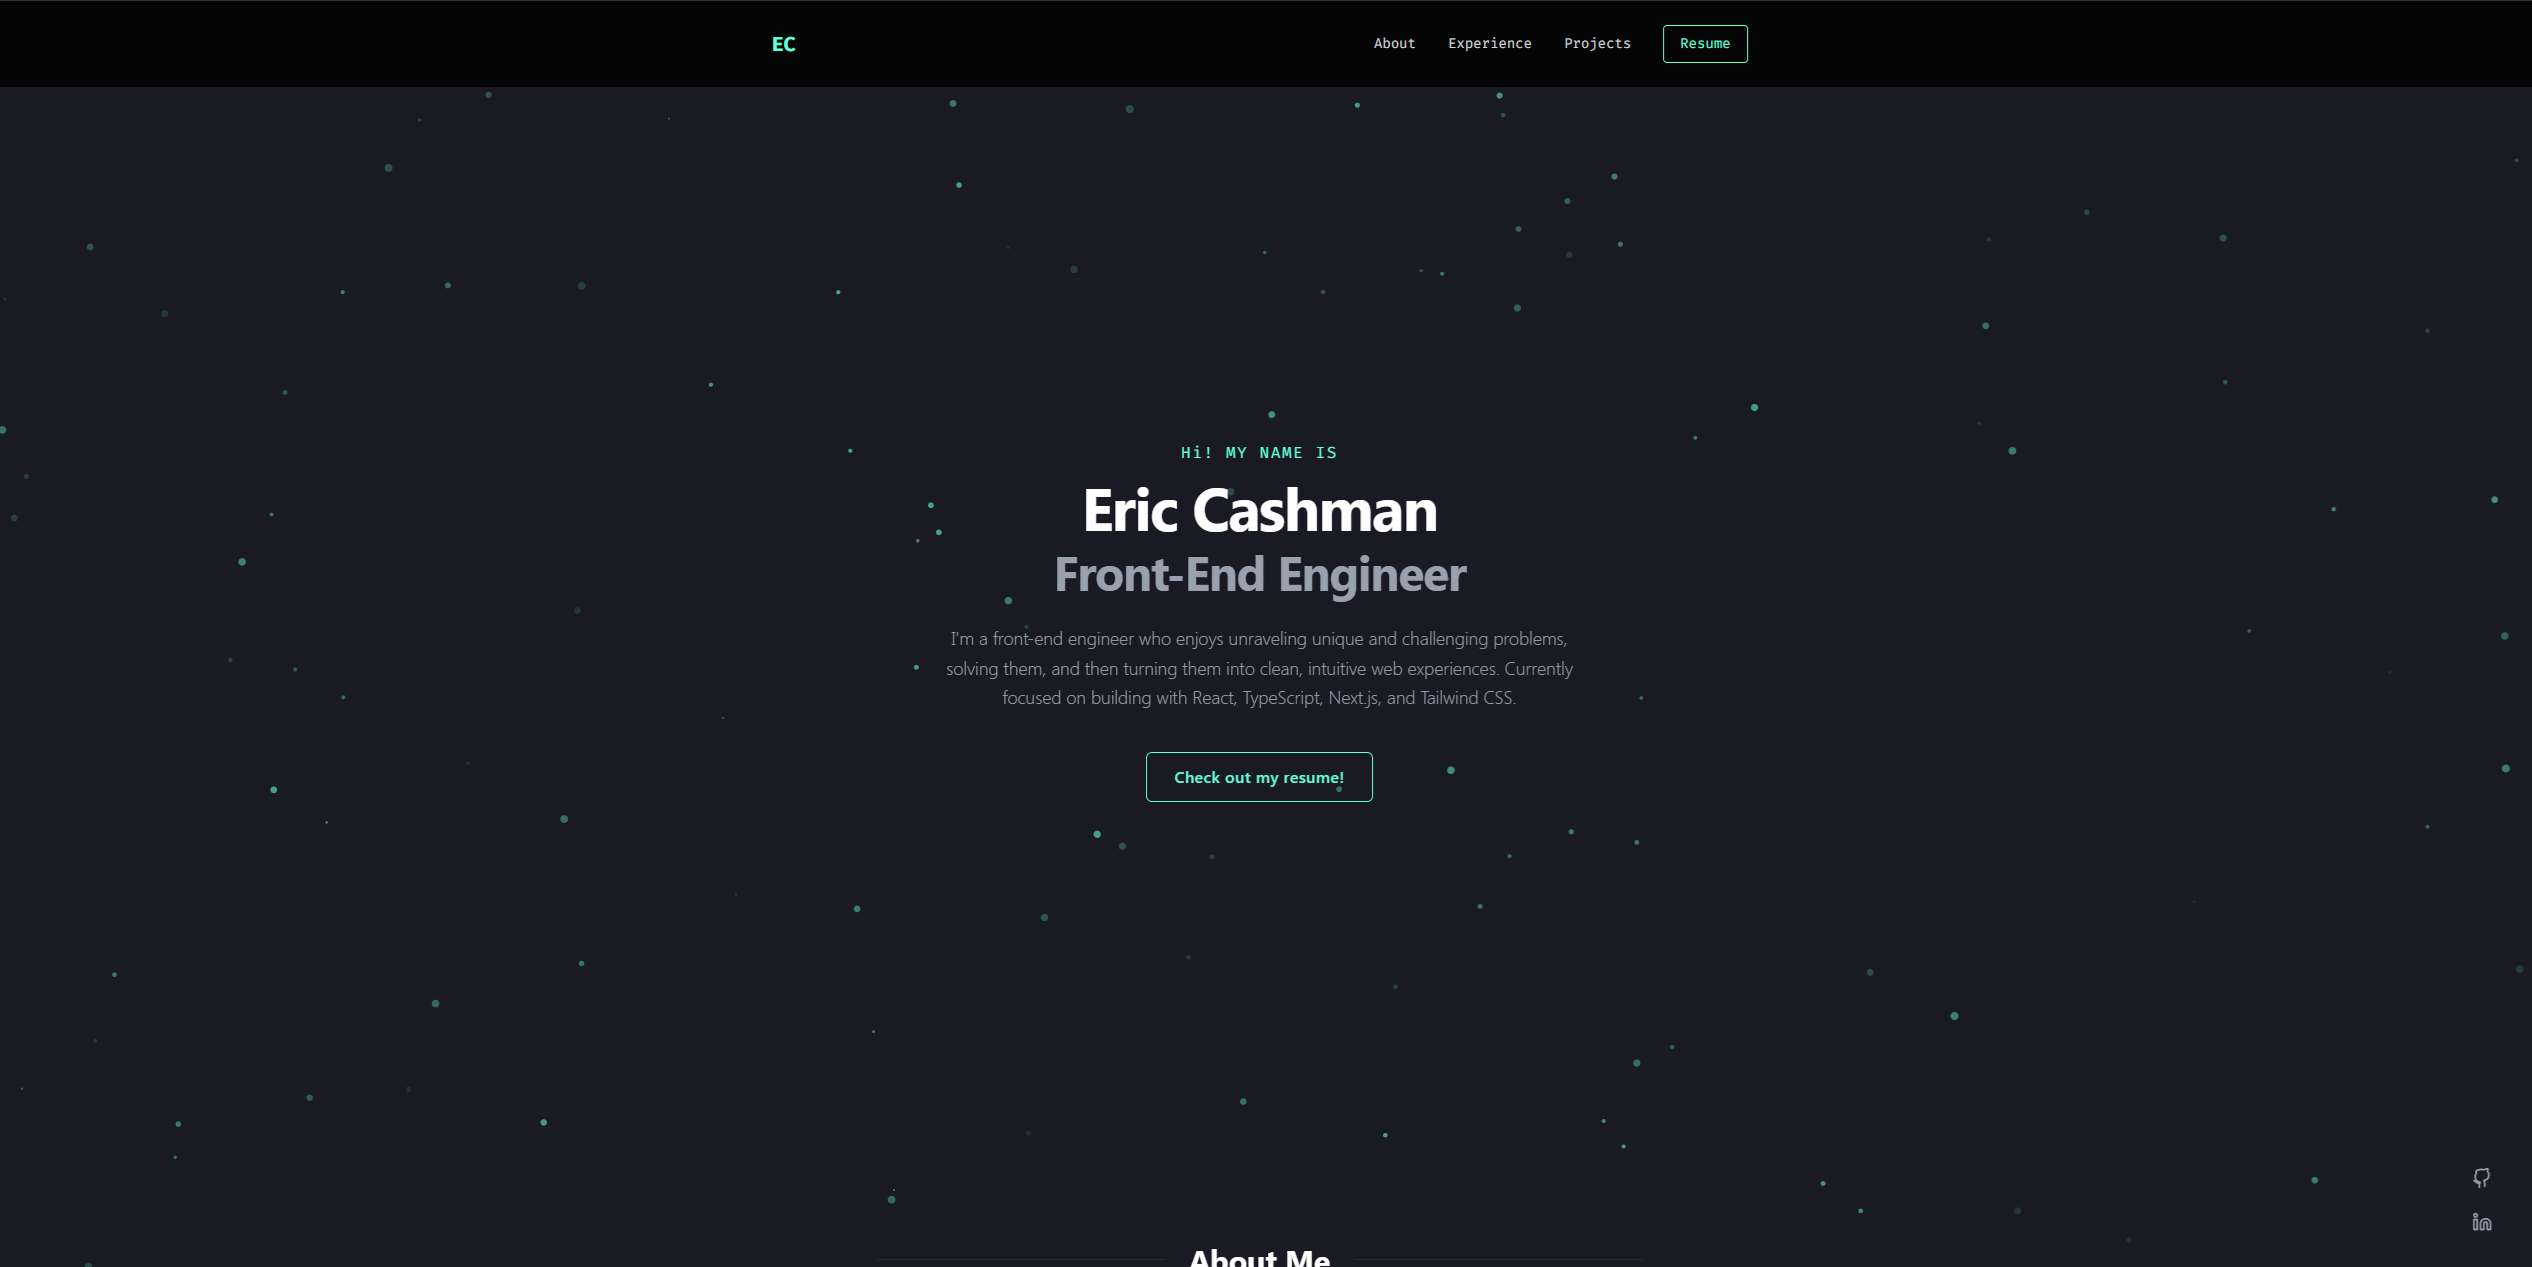
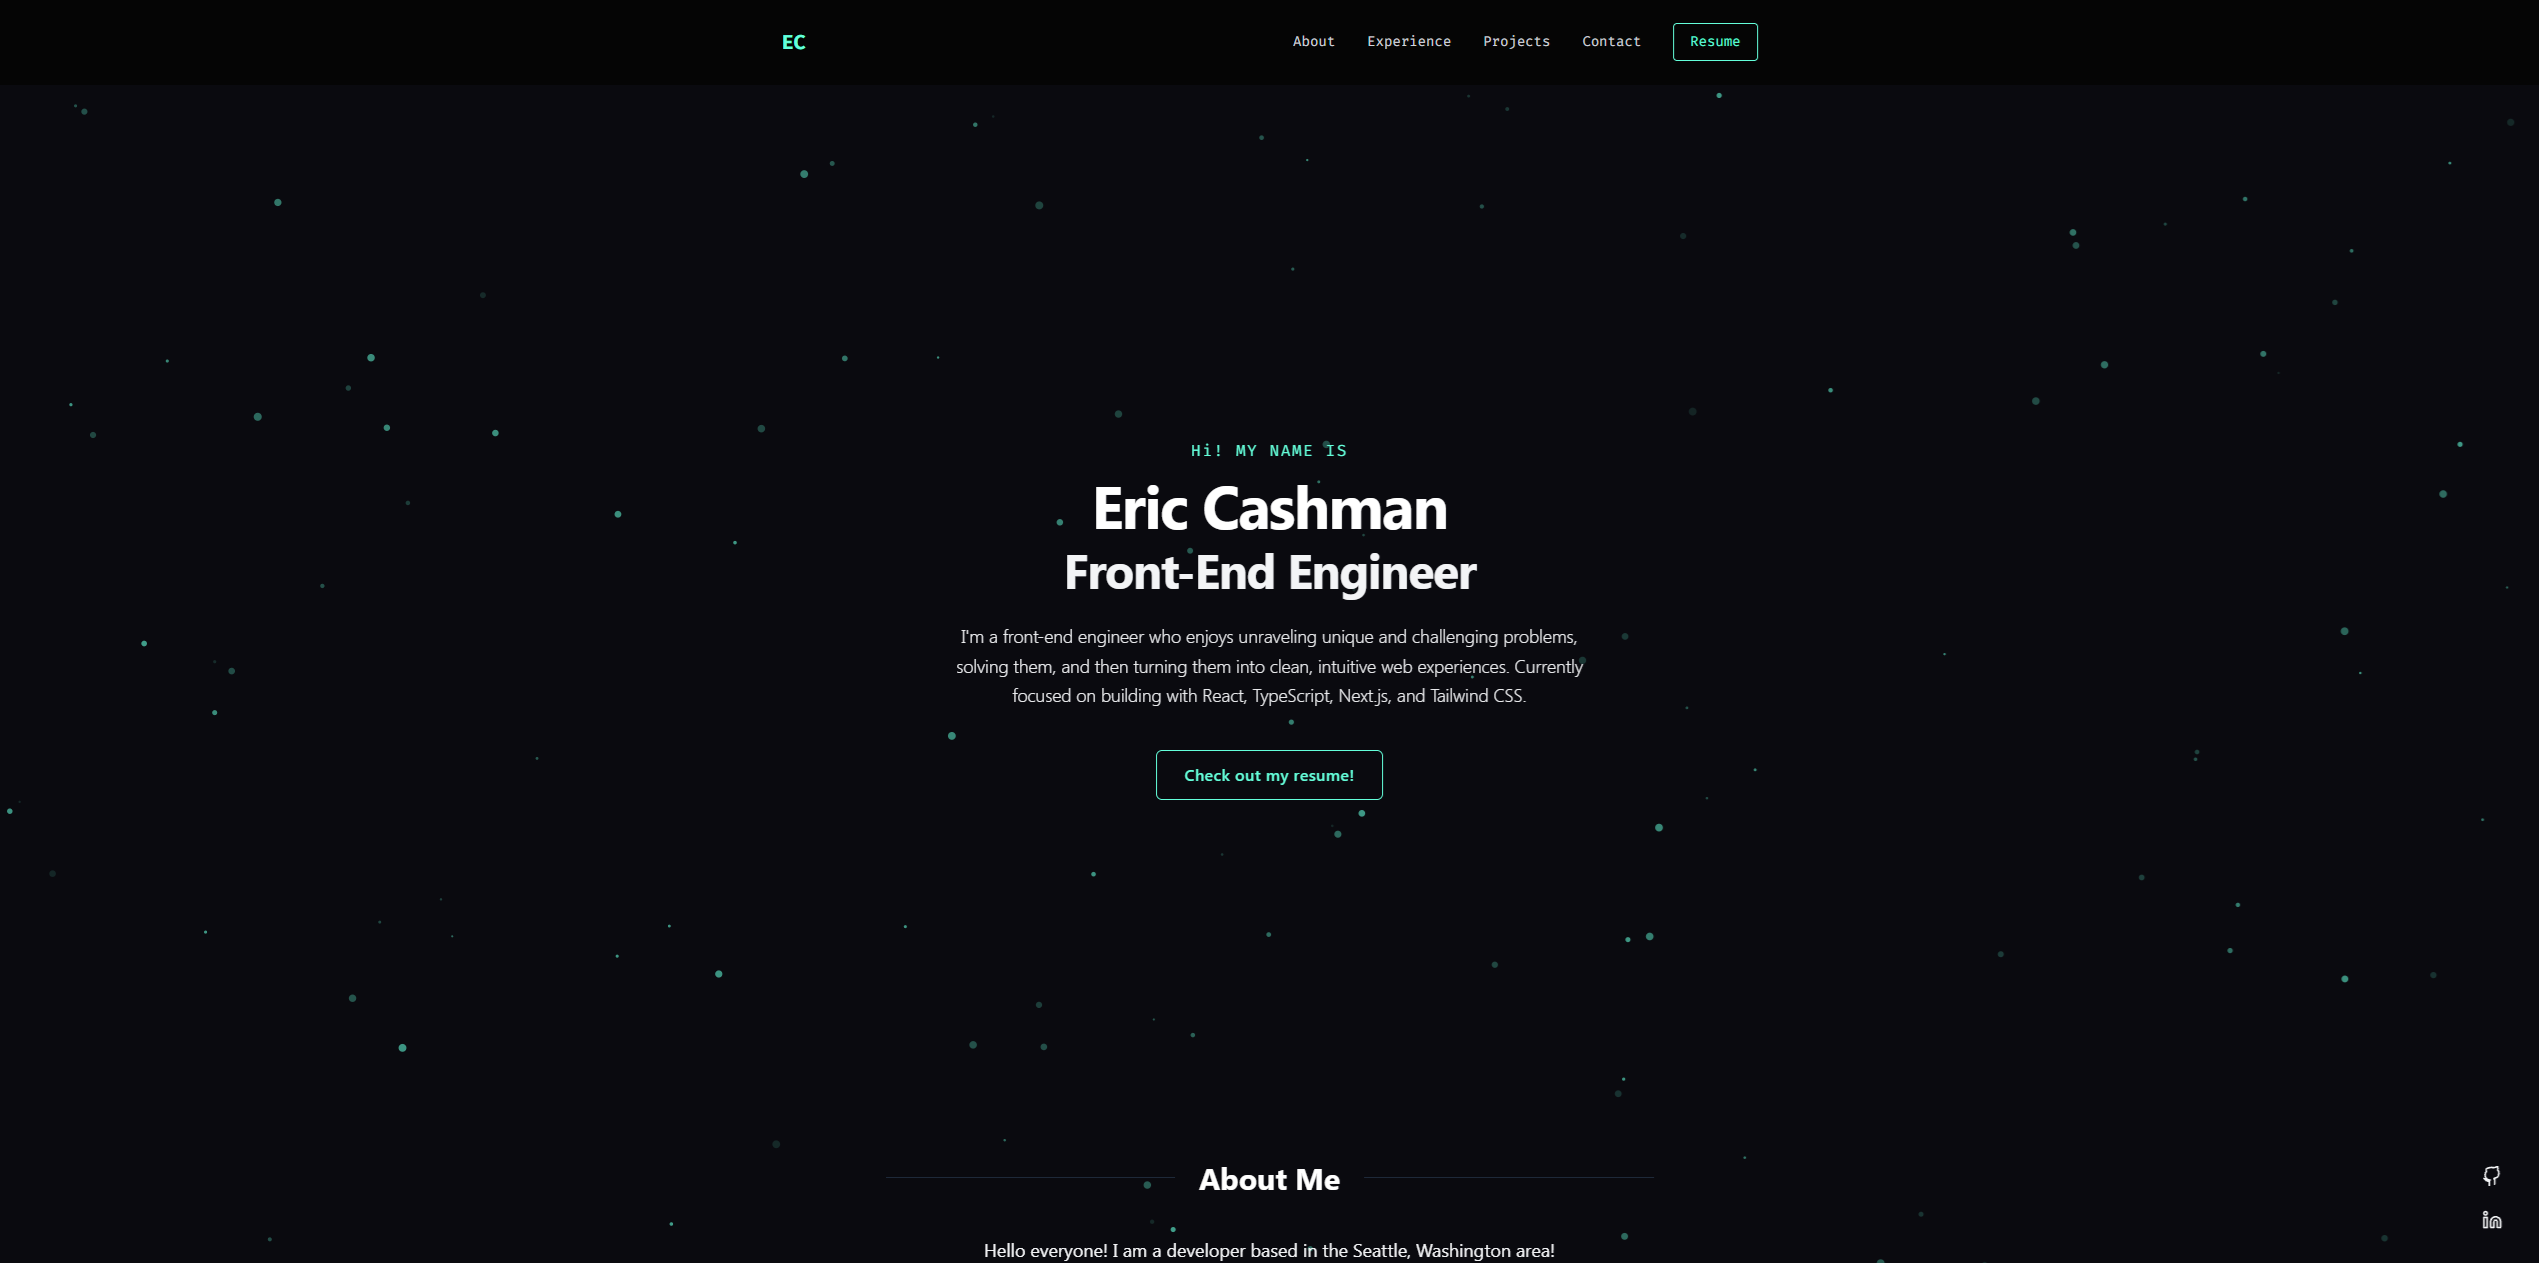
Updated styling, added WA Fire Tracker demo, and finalized Contact section

diff --git a/src/App.tsx b/src/App.tsx
@@ -5,7 +5,7 @@ import Contact from './Contact';
 
 function About() {
   return (
-    <section id="about" className="py-24 max-w-3xl mx-auto flex flex-col items-center text-center">
+    <section id="about" className="py-4 max-w-3xl mx-auto flex flex-col items-center text-center">
       <div className="flex items-center justify-center mb-10 w-full">
         <div className="h-[1px] bg-gray-800 flex-1 mr-6"></div>
         <h2 className="text-3xl font-bold text-white whitespace-nowrap">
@@ -14,7 +14,7 @@ function About() {
         <div className="h-[1px] bg-gray-800 flex-1 ml-6"></div>
       </div>
       
-      <div className="text-gray-400 text-lg leading-relaxed space-y-4 mx-auto">
+      <div className="text-gray-100 text-lg leading-relaxed space-y-4 mx-auto">
         <p>
           Hello everyone! I am a developer based in the Seattle, Washington area!
         </p>
@@ -22,7 +22,7 @@ function About() {
           I am currently going for my Bachelor's in Application Development at North Seattle College. I became curious about programming while during High School when my friend built a mod for a game we played, and it completely made life easier for us. I wanted to learn how to do that, which brought me here today.
         </p>
         <p>
-          Favorite hobbies include: Walking, hanging out with friends, and learning new things!
+          Favorite hobbies include: Walking, hanging out with friends, finding new ways to automate and make things efficient, and learning new things!
         </p>
       </div>
     </section>
@@ -67,17 +67,17 @@ function Experience() {
         {jobs.map((job) => (
           <div key={job.id} className="flex flex-col sm:flex-row gap-4 sm:gap-8 group">
             <div className="w-full sm:w-1/4 pt-1">
-              <p className="text-sm font-mono text-gray-500 uppercase tracking-wider">
+              <p className="text-sm font-mono text-gray-200 uppercase tracking-wider">
                 {job.date}
               </p>
             </div>
             <div className="w-full sm:w-3/4">
               <h3 className="text-xl font-medium text-white mb-2 flex items-center">
                 {job.title} 
-                <span className="text-gray-400 mx-2">•</span> 
-                <span className="text-gray-300 font-normal">{job.company}</span>
+                <span className="text-gray-200 mx-2">•</span> 
+                <span className="text-gray-200 font-normal">{job.company}</span>
               </h3>
-              <p className="text-gray-400 text-base leading-relaxed">
+              <p className="text-gray-200 text-base leading-relaxed">
                 {job.description}
               </p>
             </div>
@@ -98,8 +98,19 @@ function Projects() {
       tech: ["React", "TypeScript", "Tailwind CSS", "Vite"],
       github: "https://github.com/Eric-Cashman/personal-website",
       external: "",
+      demo: "", // Added empty demo property
       image: "/personal-website/photos/portfolio-shot.png" 
     },
+    {
+      id: 2,
+      title: "Washington Fire Tracker",
+      description: "A web application mapping and tracking active wildfire data across Washington state by counties, and showing which areas are most likely at risk.",
+      tech: ["React", "JavaScript", "Python", "Amazon Kiro", "HTML"], 
+      github: "https://github.com/Eric-Cashman/wa-kiro-fire",
+      external: "",
+      demo: "https://youtu.be/8RNYvv2JVvw", // Added your YouTube link here
+      image: "/personal-website/photos/WAFIREScreenshot.png"
+    }
   ];
 
   return (
@@ -125,7 +136,7 @@ function Projects() {
                     className="w-full h-full object-cover opacity-80 group-hover:opacity-100 transition-opacity duration-300" 
                   />
                 ) : (
-                  <svg xmlns="http://www.w3.org/2000/svg" className="h-8 w-8 text-gray-500 group-hover:text-[#64ffda]/70 transition-colors" fill="none" viewBox="0 0 24 24" stroke="currentColor">
+                  <svg xmlns="http://www.w3.org/2000/svg" className="h-8 w-8 text-gray-300 group-hover:text-[#64ffda]/70 transition-colors" fill="none" viewBox="0 0 24 24" stroke="currentColor">
                     <path strokeLinecap="round" strokeLinejoin="round" strokeWidth={1} d="M4 16l4.586-4.586a2 2 0 012.828 0L16 16m-2-2l1.586-1.586a2 2 0 012.828 0L20 14m-6-6h.01M6 20h12a2 2 0 002-2V6a2 2 0 00-2-2H6a2 2 0 00-2 2v12a2 2 0 002 2z" />
                   </svg>
                 )}
@@ -150,9 +161,28 @@ function Projects() {
                 )}
               </div>
               
-              <p className="text-gray-400 text-sm leading-relaxed mb-6">
-                {project.description}
-              </p>
+              {/* Wrapped description and demo link together for perfect spacing */}
+              <div className="mb-6">
+                <p className="text-gray-200 text-sm leading-relaxed">
+                  {project.description}
+                </p>
+                
+                {/* Conditionally render the demo link if one exists */}
+                {project.demo && (
+                  <p className="text-sm mt-3">
+                    <span className="text-gray-400">Demo: </span>
+                    <a 
+                      href={project.demo} 
+                      target="_blank" 
+                      rel="noopener noreferrer" 
+                      className="text-[#64ffda] hover:underline hover:text-white transition-colors"
+                    >
+                      {project.demo}
+                    </a>
+                  </p>
+                )}
+              </div>
+
               <div className="flex flex-wrap gap-2 mt-auto">
                 {project.tech.map((techItem, index) => (
                   <span 
@@ -174,7 +204,7 @@ function Projects() {
 
 export default function App() {
   return (
-    <div className="bg-[#1a1a24] min-h-screen text-white font-sans antialiased relative">
+    <div className="bg-[#0a0a0f] min-h-screen text-white font-sans antialiased relative">
       <ParticleBackground />
       <div className="relative z-10">
         <Header />

diff --git a/src/components/Hero.tsx b/src/components/Hero.tsx
@@ -1,6 +1,6 @@
 export default function Hero() {
   return (
-    <section className="flex flex-col items-center justify-center min-h-[80vh] py-20 text-center relative">
+    <section className="flex flex-col items-center justify-center min-h-[80vh] py-12 text-center relative">
       <p className="text-[#64ffda] font-mono mb-2 text-sm md:text-base tracking-widest">
         Hi! MY NAME IS
       </p>
@@ -9,11 +9,11 @@ export default function Hero() {
         Eric Cashman
       </h1>
       
-      <h2 className="text-3xl sm:text-4xl md:text-5xl font-bold text-gray-400 mb-6 leading-[1.2] tracking-tight">
+      <h2 className="text-3xl sm:text-4xl md:text-5xl font-bold text-gray-100 mb-6 leading-[1.2] tracking-tight">
         Front-End Engineer
       </h2>
       
-      <p className="text-base md:text-lg text-gray-400 max-w-2xl font-light leading-relaxed mb-10 mx-auto">
+      <p className="text-base md:text-lg text-gray-100 max-w-2xl font-light leading-relaxed mb-10 mx-auto">
         I'm a front-end engineer who enjoys unraveling unique and challenging problems, solving them, and then turning them into clean, intuitive web experiences. Currently focused on building with React, TypeScript, Next.js, and Tailwind CSS.
       </p>
 
@@ -29,13 +29,13 @@ export default function Hero() {
       </div>
 
       <div className="fixed bottom-10 right-10 hidden md:flex flex-col items-center space-y-6">
-        <a href="https://github.com/Eric-Cashman" target="_blank" rel="noopener noreferrer" className="text-gray-400 hover:text-[#64ffda] transition-transform hover:-translate-y-1">
+        <a href="https://github.com/Eric-Cashman" target="_blank" rel="noopener noreferrer" className="text-gray-100 hover:text-[#64ffda] transition-transform hover:-translate-y-1">
             <svg xmlns="http://www.w3.org/2000/svg" width="20" height="20" viewBox="0 0 24 24" fill="none" stroke="currentColor" strokeWidth="2" strokeLinecap="round" strokeLinejoin="round">
                 <path d="M15 22v-4a4.8 4.8 0 0 0-1-3.2c3-.3 6-1.5 6-6.5a5.4 5.4 0 0 0-1.5-3.8 5.4 5.4 0 0 0 0-3.8s-1.2-.4-3.9 1.4a13.3 13.3 0 0 0-7 0C6.2 2.6 5 3 5 3a5.4 5.4 0 0 0 0 3.8A5.4 5.4 0 0 0 3.5 10.5c0 5 3 6.2 6 6.5a4.8 4.8 0 0 0-1 3.2v4"></path>
                 <path d="M9 18c-4.5 1.5-5-2.5-7-3"></path>
             </svg>
         </a>
-        <a href="https://linkedin.com/in/Eric-Cashman" target="_blank" rel="noopener noreferrer" className="text-gray-400 hover:text-[#64ffda] transition-transform hover:-translate-y-1">
+        <a href="https://linkedin.com/in/Eric-Cashman" target="_blank" rel="noopener noreferrer" className="text-gray-100 hover:text-[#64ffda] transition-transform hover:-translate-y-1">
             <svg xmlns="http://www.w3.org/2000/svg" width="20" height="20" viewBox="0 0 24 24" fill="none" stroke="currentColor" strokeWidth="2" strokeLinecap="round" strokeLinejoin="round">
                 <path d="M16 8a6 6 0 0 1 6 6v7h-4v-7a2 2 0 0 0-2-2 2 2 0 0 0-2 2v7h-4v-7a6 6 0 0 1 6-6z"></path>
                 <rect width="4" height="12" x="2" y="9"></rect>

diff --git a/src/Contact.tsx b/src/Contact.tsx
@@ -1,12 +1,16 @@
 export default function Contact() {
   return (
-    <section id="contact" className="py-20 flex flex-col items-center justify-center min-h-[70vh]">
-      <h2 className="text-3xl md:text-4xl font-bold text-white mb-8 tracking-tight">
-        Get In Touch
-      </h2>
+    <section id="contact" className="py-12 flex flex-col items-center justify-center max-w-3xl mx-auto w-full">
+      <div className="flex items-center justify-center mb-12 w-full text-center">
+        <div className="h-[1px] bg-gray-800 flex-1 mr-6"></div>
+        <h2 className="text-3xl font-bold text-white whitespace-nowrap">
+          Get In Touch
+        </h2>
+        <div className="h-[1px] bg-gray-800 flex-1 ml-6"></div>
+      </div>
       
-      <p className="text-gray-400 max-w-lg text-center mb-12 text-lg">
-        Feel free to contact me for oppotunities! My Linkedin is on the bottom right of the screen, or my email right here I'll try my best to get back to you.
+      <p className="text-gray-200 max-w-lg text-center mb-12 text-lg">
+        Feel free to contact me for opportunities! My LinkedIn is on the bottom right of the screen, or my email right here I'll try my best to get back to you.
       </p>
 
       <a 
